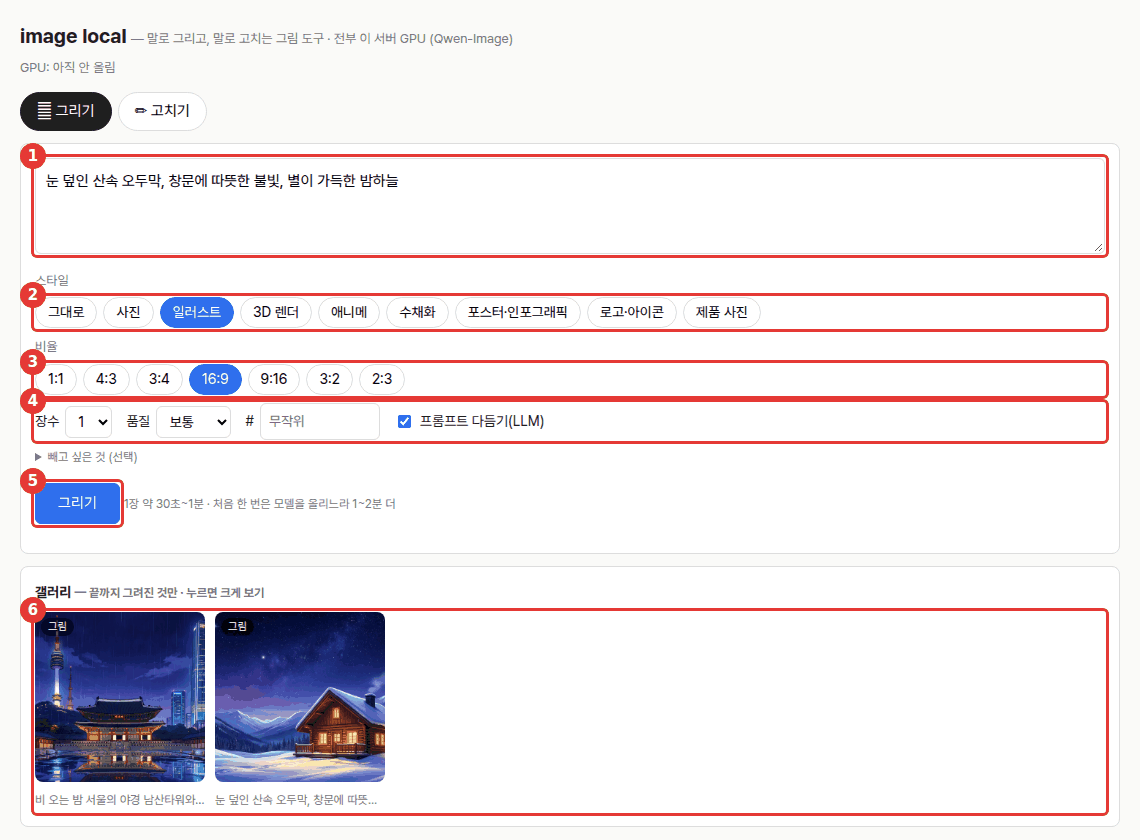
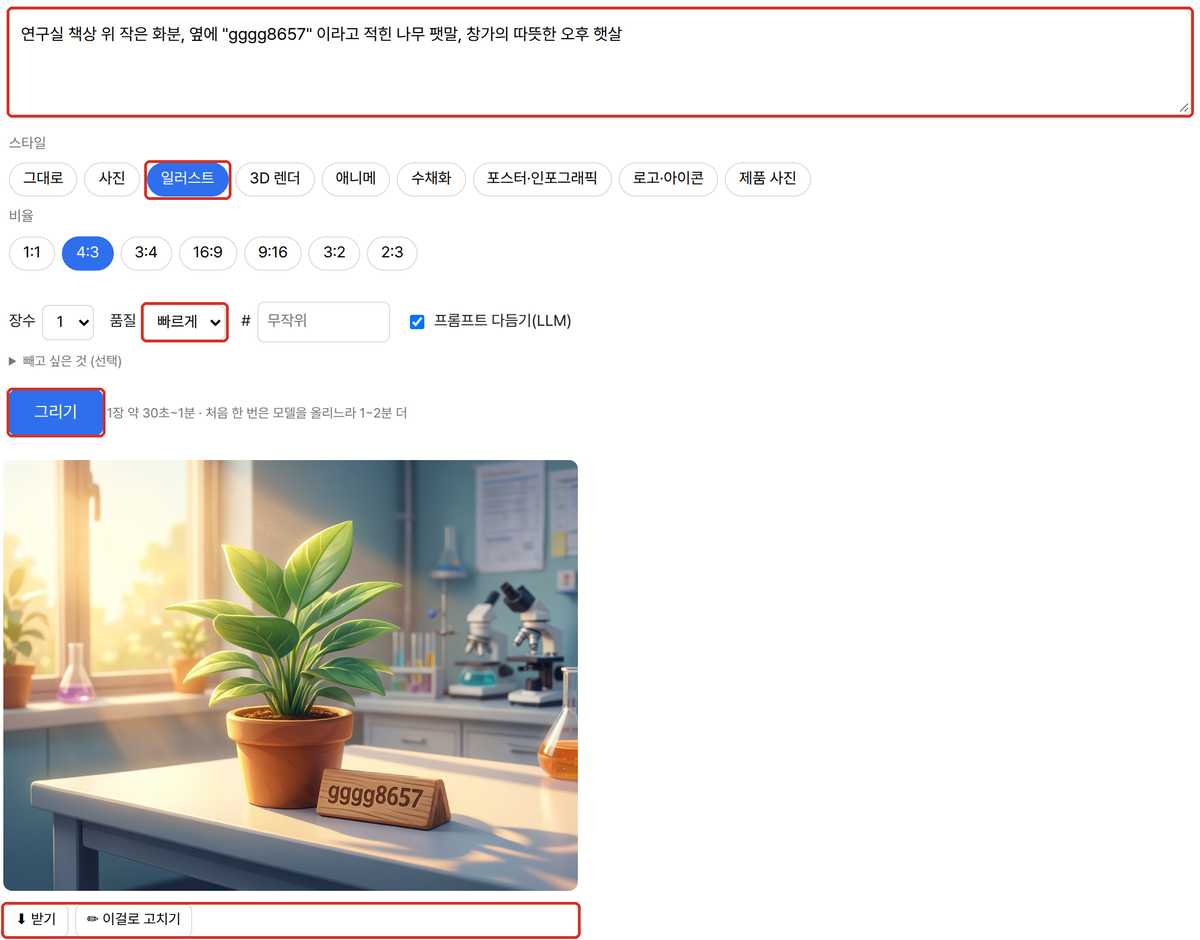
README: 그리기·크게 보기 화면을 새 캡처(상자 표시)로 바꾸고 예시를 새 실행으로

diff --git a/README.md b/README.md
@@ -2,7 +2,7 @@
 
 말로 그리고 말로 고치는 범용 그림 도구입니다 — 글로 설명하면 그림을 그리고(**Qwen-Image-2512**), 있는 그림을 말로 고칩니다(**Qwen-Image-Edit-2509**). 한글 글자·사진/일러스트/포스터/로고. 포트 `8792`.
 
-![그리기 화면 — ① 요청 ② 스타일 ③ 비율 ④ 장수·품질·번호·다듬기 ⑤ 그리기 ⑥ 갤러리](docs/img/gen.png)
+![그리기 화면 — 요청·스타일 → 품질·그리기 → 결과(받기·이걸로 고치기)](docs/img/gen.png)
 
 ## 무엇을 하나
 
@@ -16,17 +16,17 @@
 
 ## 사용 방법
 
-**그리기** (위 화면)
+**그리기** (위 화면, 빨간 상자가 누를 곳)
 
-1. **요청**(①)을 한국어로 편하게 씁니다. 그림 안에 넣을 글자는 따옴표로 감쌉니다 — 예) 포스터, 제목 "안전이 먼저입니다".
-2. **스타일**(②)과 **비율**(③)을 고릅니다.
-3. **장수·품질·번호(#)·프롬프트 다듬기(LLM)**(④)를 정합니다. 같은 번호면 같은 그림이 나오고, 비우면 매번 새로 그립니다. 빼고 싶은 것(네거티브)은 그 아래 접힌 칸에 적습니다.
-4. **그리기**(⑤)를 누르면 진행률이 보이고 결과가 바로 아래에 뜹니다. 보통 품질 1장 약 25초, 처음 한 번은 모델을 GPU 에 올리느라 1~2분 더 걸립니다.
-5. **갤러리**(⑥)의 그림을 누르면 크게 보기 창이 열립니다.
+1. **요청**을 한국어로 편하게 씁니다. 그림 안에 넣을 글자는 따옴표로 감쌉니다 — 예) 포스터, 제목 "안전이 먼저입니다".
+2. **스타일**과 **비율**을 고릅니다.
+3. **장수·품질·번호(#)·프롬프트 다듬기(LLM)**를 정합니다. 같은 번호면 같은 그림이 나오고, 비우면 매번 새로 그립니다. 빼고 싶은 것(네거티브)은 그 아래 접힌 칸에 적습니다.
+4. **그리기**를 누르면 진행률이 보이고 결과가 바로 아래에 뜹니다. 보통 품질 1장 약 25초, 처음 한 번은 모델을 GPU 에 올리느라 1~2분 더 걸립니다.
+5. **갤러리**의 그림을 누르면 크게 보기 창이 열립니다.
 
-![크게 보기 — ① 받기 · 이걸로 고치기 · 같은 설정으로 다시 · 지우기](docs/img/view.png)
+![크게 보기 — 받기 · 이걸로 고치기 · 같은 설정으로 다시 · 지우기](docs/img/view.png)
 
-6. 크게 보기 창(①)에서 받기·이걸로 고치기·같은 설정으로 다시·지우기를 하고, 아래에서 원래 요청·그림 모델에 실제로 보낸 프롬프트·설정을 확인합니다.
+6. 크게 보기 창에서 받기·이걸로 고치기·같은 설정으로 다시·지우기를 하고, 아래에서 원래 요청·그림 모델에 실제로 보낸 프롬프트·설정을 확인합니다.
 
 **고치기**
 
@@ -39,11 +39,11 @@
 
 ## 예시
 
-포털 경유로 실제 실행한 결과입니다(2026-10-07, 실행 `2026-10-07-d95b2b`, 위 크게 보기 화면의 그림).
+포털 경유로 실제 실행한 결과입니다(2026-10-12, 실행 `2026-10-12-c14ee5`, 위 화면의 그림).
 
-- **입력**: "눈 덮인 산속 오두막, 창문에 따뜻한 불빛, 별이 가득한 밤하늘" · 스타일 일러스트 · 16:9 · 보통(30단계) · 1장 · 프롬프트 다듬기 켬
-- **다듬어진 프롬프트**(LLM): "A digital illustration of a cozy wooden cabin nestled in snow-covered mountains under a vast, starry night sky. Warm golden light glows from the windows … serene and magical winter atmosphere., Ultra HD, 4K, cinematic composition"
-- **출력**: 1664×928 PNG 1장 · 번호 #514648638 (같은 번호·설정이면 같은 그림)
+- **입력**: "연구실 책상 위 작은 화분, 옆에 "gggg8657" 이라고 적힌 나무 팻말, 창가의 따뜻한 오후 햇살" · 스타일 일러스트 · 4:3 · 빠르게(20단계) · 1장 · 프롬프트 다듬기 켬
+- **다듬어진 프롬프트**(LLM): "A clean digital illustration of a small potted plant sitting on a tidy research laboratory desk. Beside the plant is a small wooden sign with the text "gggg8657" clearly engraved on it. Warm afternoon sunlight streams through a nearby window … bright, airy lighting scheme."
+- **출력**: 1472×1104 PNG 1장 · 번호 #851036815 (같은 번호·설정이면 같은 그림) · 팻말에 따옴표 문구 "gggg8657" 이 그대로 들어감
 
 ## 설치·실행
 ```bash
